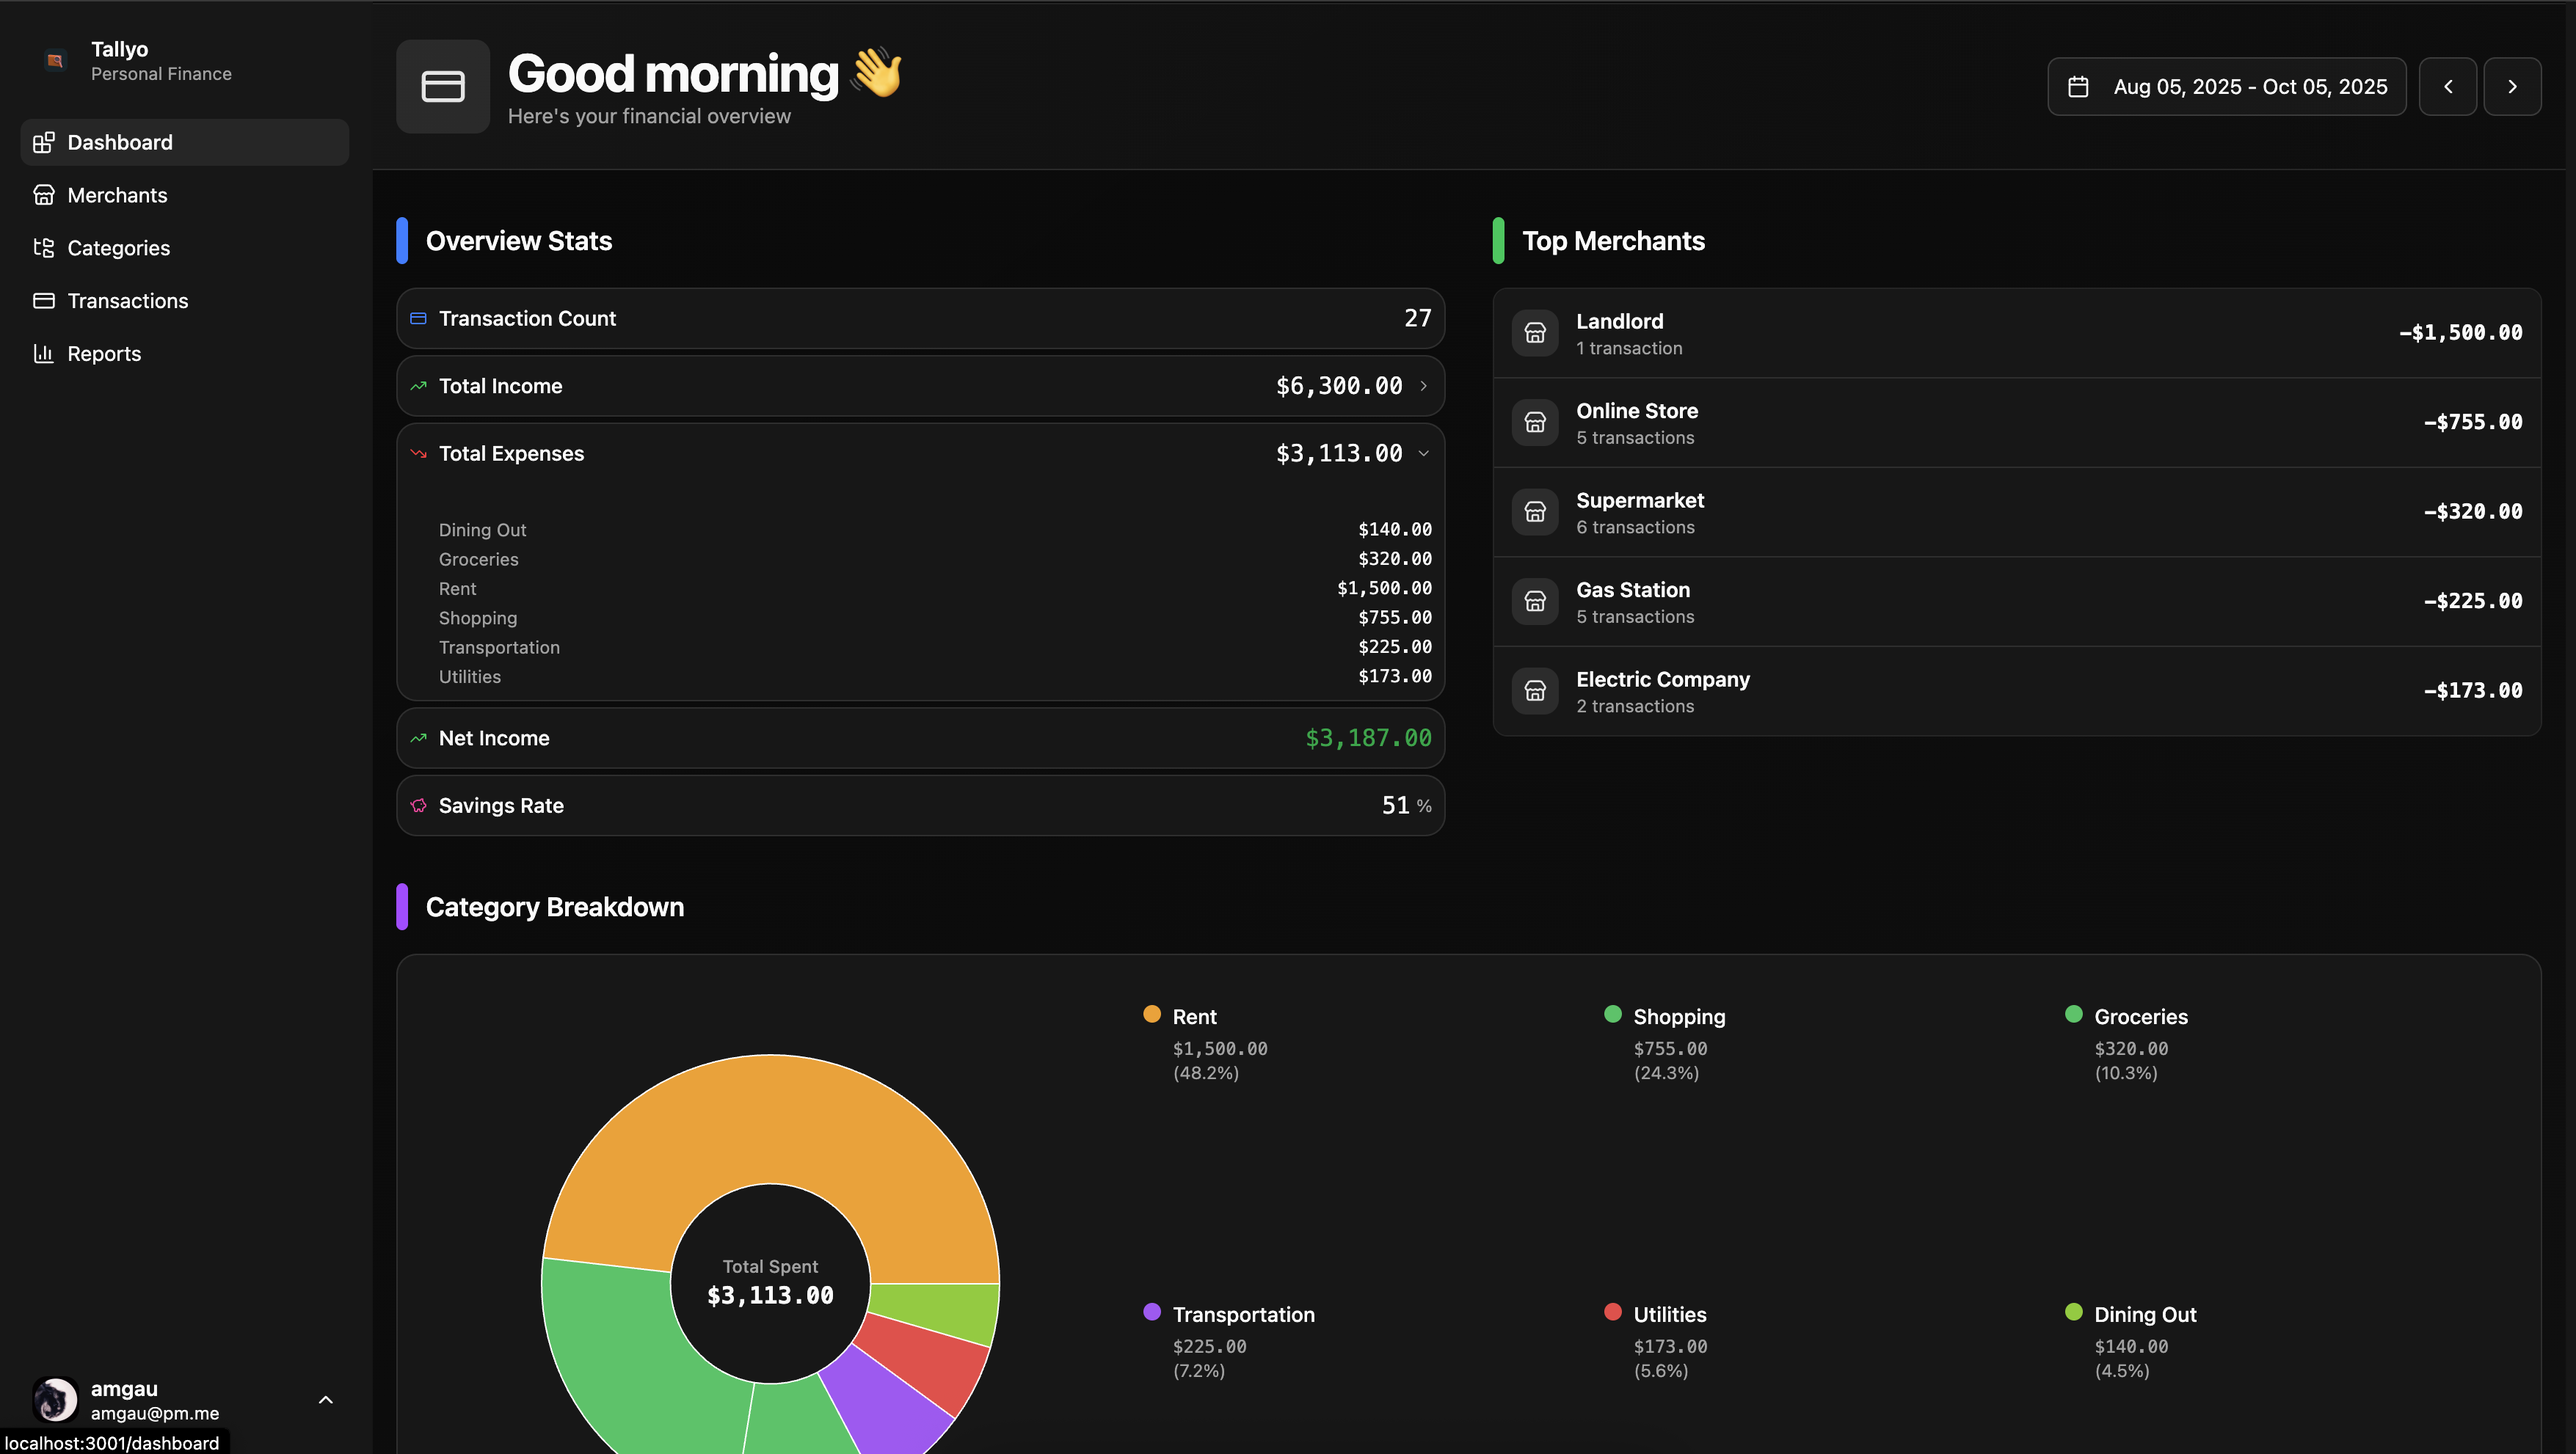
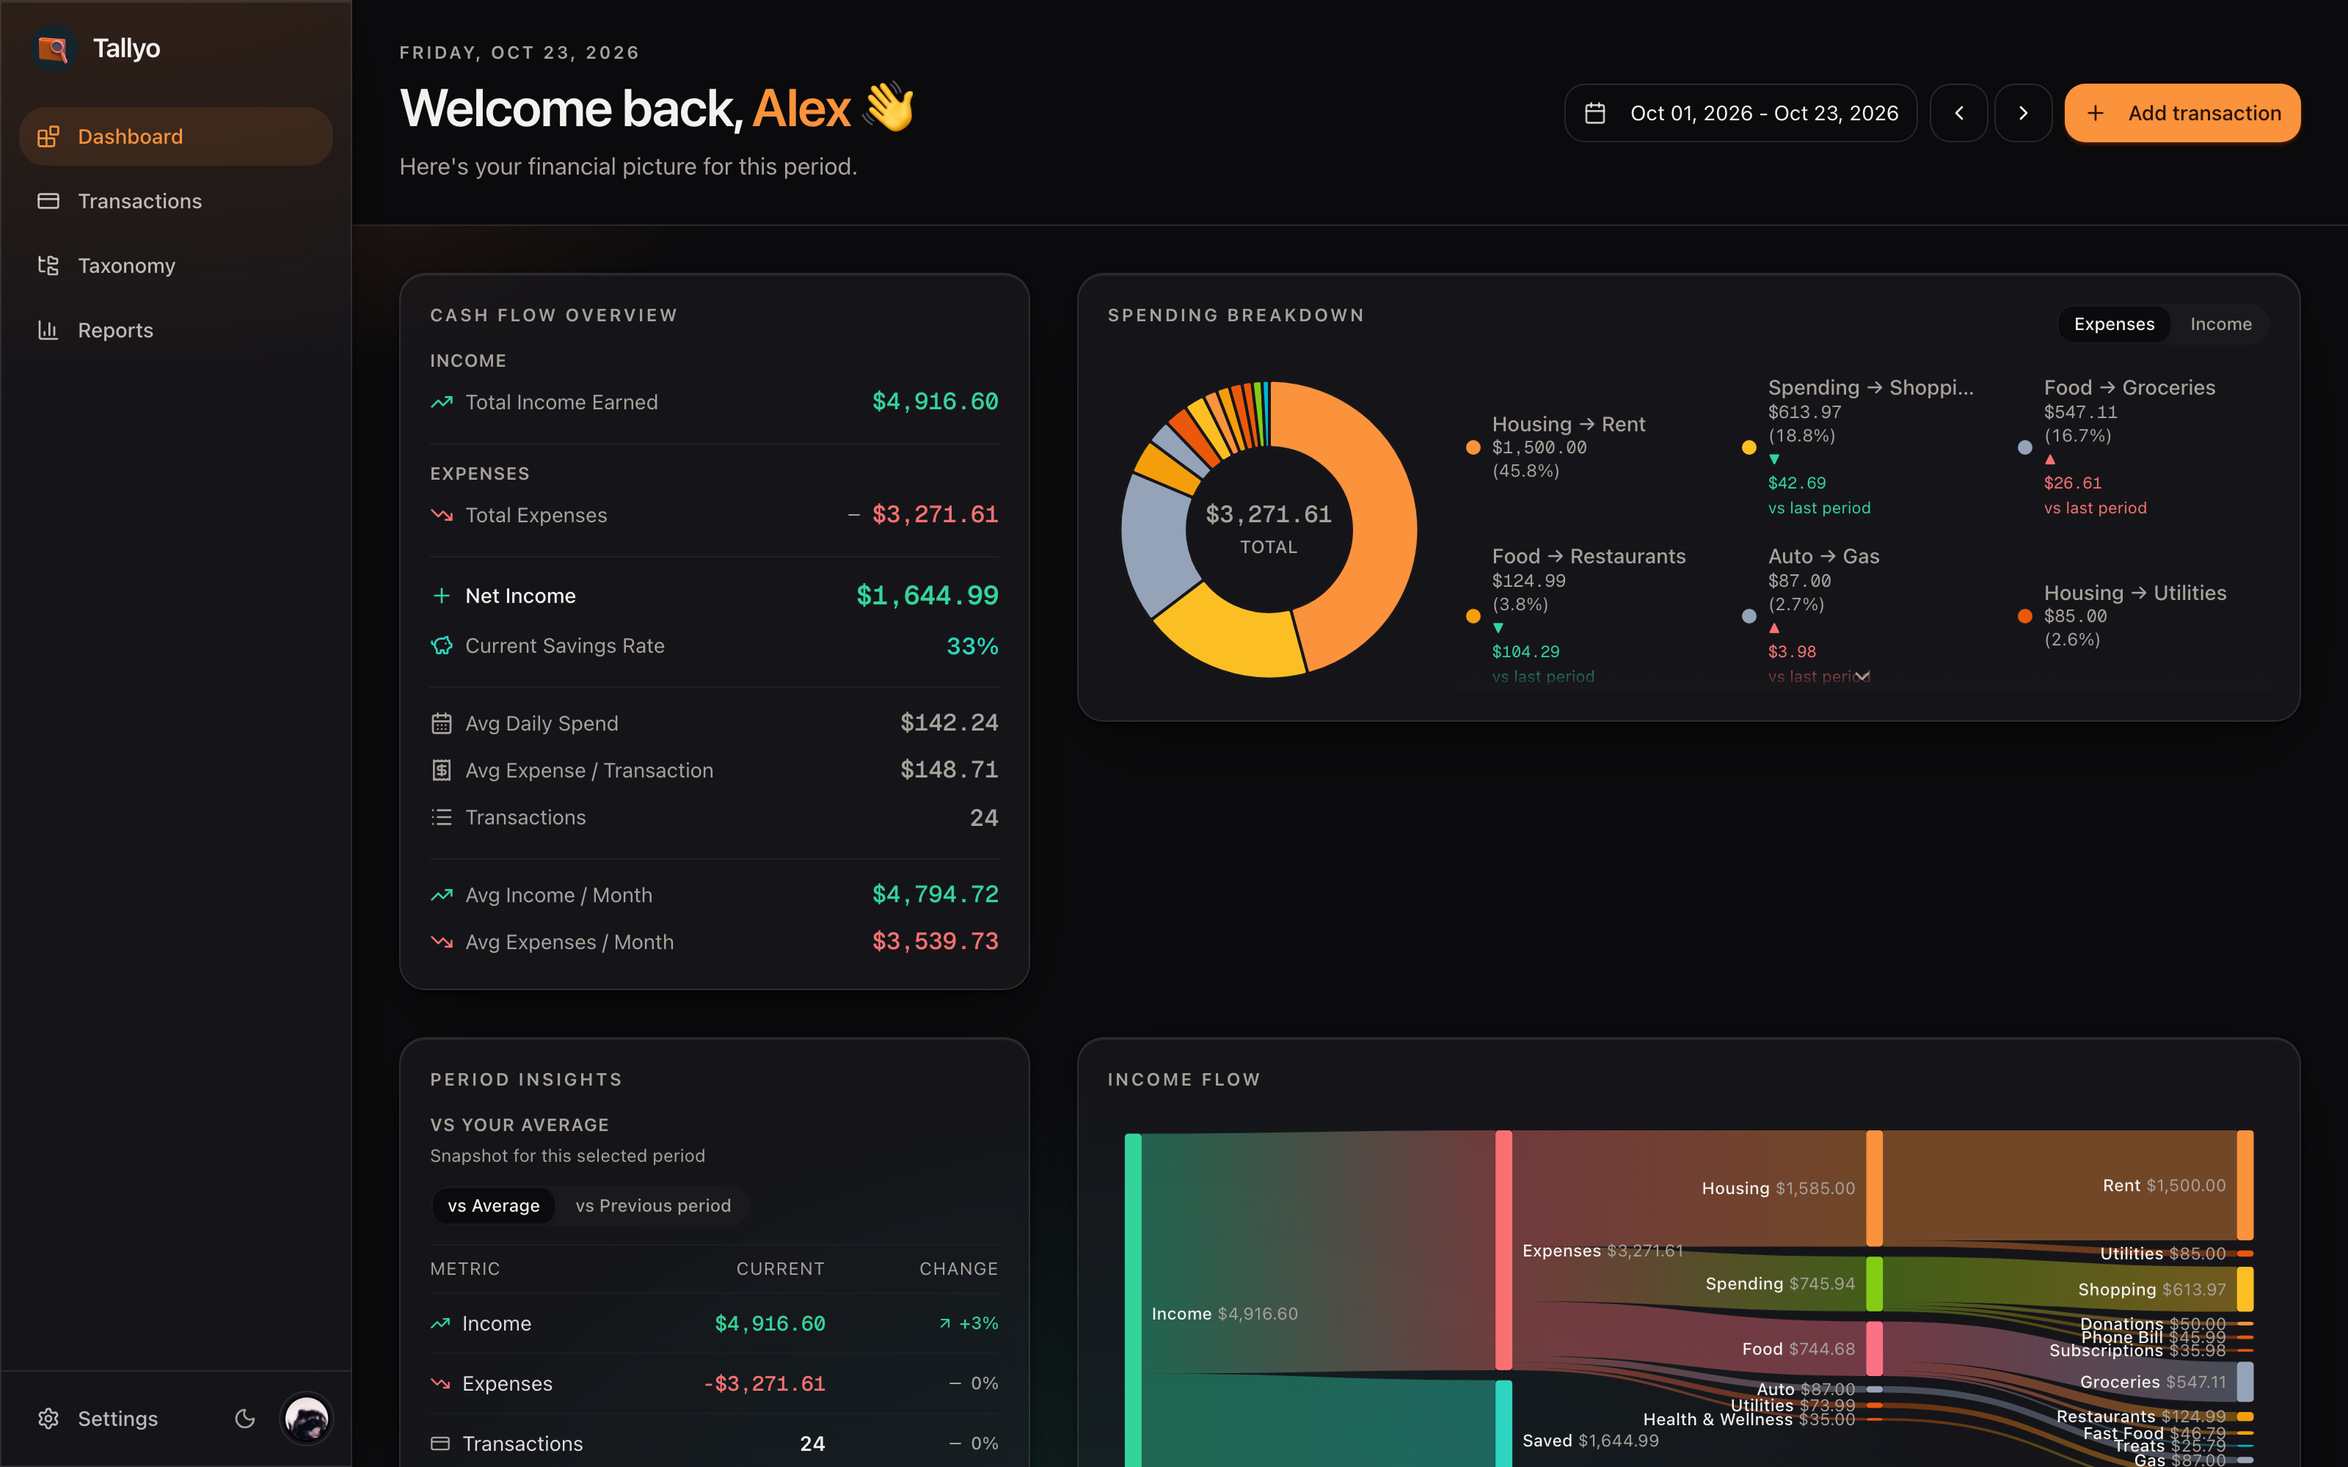
docs: rewrite README and add screenshots
Replace the Better-T-Stack boilerplate with documentation that
matches the app: features, stack, setup steps, sample-data
commands, scripts, project layout, and the external API.

Add dark-theme screenshots for transactions, reports, and
taxonomy, and refresh the landing and dashboard captures.

diff --git a/README.md b/README.md
@@ -1,77 +1,120 @@
-# tallyo-rewrite
+# Tallyo
 
-This project was created with [Better-T-Stack](https://github.com/AmanVarshney01/create-better-t-stack), a modern TypeScript stack that combines React, TanStack Router, Hono, ORPC, and more.
+Tallyo is a personal-finance app built around one workflow: import your transactions, normalize merchants and categories, then read the results on a dashboard and in reports.
+
+![Tallyo dashboard](examples/dashboard.png)
 
 ## Features
 
-- **TypeScript** - For type safety and improved developer experience
-- **TanStack Router** - File-based routing with full type safety
-- **TailwindCSS** - Utility-first CSS for rapid UI development
-- **shadcn/ui** - Reusable UI components
-- **Hono** - Lightweight, performant server framework
-- **oRPC** - End-to-end type-safe APIs with OpenAPI integration
-- **Node.js** - Runtime environment
-- **Drizzle** - TypeScript-first ORM
-- **PostgreSQL** - Database engine
-- **Authentication** - Email & password authentication with Better Auth
-- **Turborepo** - Optimized monorepo build system
-- **Biome** - Linting and formatting
+- **Transactions**: create, edit, search, filter, review, split, and annotate, or import in bulk through the REST API.
+- **Taxonomy**: merchants, categories, and keyword rules, with recommended categories you can apply in bulk.
+- **Dashboard**: cash flow, spending breakdown, period-over-period insights, and an income-flow Sankey.
+- **Reports**: filtered summaries and totals for any date range.
+- **AI suggestions (optional)**: transactions that end up uncategorized can be queued for a category or merchant suggestion via OpenRouter. Suggestions are advisory metadata and are never applied automatically.
+- **Auth**: Discord OAuth with server-side sessions.
 
-## Getting Started
+## Stack
 
-First, install the dependencies:
+| Layer | Choice |
+| --- | --- |
+| Web | React 19, TanStack Router and Query, Tailwind CSS v4, Radix-based UI components |
+| API | Hono, oRPC, Drizzle ORM |
+| Data | PostgreSQL 16 |
+| Tooling | Vite+ (`vp`) for dev, build, test, lint, and format; Vitest |
+
+## Screenshots
+
+|  |  |
+| --- | --- |
+| ![Transactions](examples/transactions.png) | ![Reports](examples/reports.png) |
+| ![Taxonomy](examples/taxonomy.png) | ![Landing page](examples/landing.png) |
+
+## Getting started
+
+Requires Node.js and Docker for the local database.
+
+1. Install dependencies:
 
 ```bash
 npm install
 ```
-## Database Setup
 
-This project uses PostgreSQL with Drizzle ORM.
+2. Start PostgreSQL:
 
-1. Make sure you have a PostgreSQL database set up.
 ```bash
-npm run db:dev # or npm run db:dev:attached for db logs in the terminal
+npm run db:dev
 ```
 
-2. Setup `apps/server/.env` file with your PostgreSQL connection details.
-```
-cd apps/server
-cp .env.example .env
+3. Create the server env file and add your Discord OAuth credentials:
+
+```bash
+cp apps/server/.env.example apps/server/.env
 ```
 
-The `.env.example` file is setup for local development, change it before running in production!
+`DISCORD_CLIENT_ID` and `DISCORD_CLIENT_SECRET` are required. Create a Discord application, add `http://localhost:3001/api/auth/callback/discord` as a redirect URI, and copy its client ID and secret into the file. `DATABASE_URL` already points at the compose database.
 
-3. Apply the schema to your database:
+4. Apply the schema:
+
 ```bash
 npm run db:push
 ```
 
-Then, run the development server:
+5. Start both apps:
 
 ```bash
 npm run dev
 ```
 
-Open [http://localhost:3001](http://localhost:3001) in your browser to see the web application.
+The web app runs at [http://localhost:3001](http://localhost:3001) and the API at [http://localhost:3000](http://localhost:3000).
 
-The API is running at [http://localhost:3000](http://localhost:3000).
+Sign in with Discord, or skip OAuth in development by opening [http://localhost:3000/api/auth/dev-login](http://localhost:3000/api/auth/dev-login). It reuses the first user in the database, so seeded data is visible right away; add `?fresh=1` to create a separate test user instead.
 
-## Project Structure
+## Sample data
+
+```bash
+npm run db:seed     # four months of transactions for the first user
+npm run db:refresh  # three months, plus unreviewed transactions and merchant keywords
+```
+
+Both commands clear existing categories, merchants, and transactions. `db:refresh` also clears settings and the external API token.
+
+## Scripts
+
+| Command | What it does |
+| --- | --- |
+| `npm run dev` | Start web and server in parallel |
+| `npm run dev:web` / `npm run dev:server` | Start one side only |
+| `npm run build` | Production build |
+| `npm run check` | Format, lint, and type-check with fixes |
+| `npm run check-types` | Type-check both apps |
+| `npm run test` | Run the Vitest suites |
+| `npm run db:dev` / `npm run db:down` | Start or stop local PostgreSQL |
+| `npm run db:push` | Push the Drizzle schema |
+| `npm run db:generate` / `npm run db:migrate` | Create or apply migrations |
+| `npm run db:seed` / `npm run db:refresh` | Load sample data |
+| `npm run db:studio` | Open Drizzle Studio |
+
+## Project structure
 
 ```
-tallyo-rewrite/
+tallyo/
 ├── apps/
-│   ├── web/         # Frontend application (React + TanStack Router)
-│   └── server/      # Backend API (Hono, ORPC)
+│   ├── web/      React SPA: routes, components, oRPC client
+│   └── server/   Hono API, oRPC routers, Drizzle schema, migrations
+├── examples/     Screenshots used in this README
+├── compose.yml   Local PostgreSQL and production-style server container
+└── vite.config.ts
 ```
 
-## Available Scripts
+## External API
 
-- `npm run dev`: Start all applications in development mode
-- `npm run build`: Build all applications
-- `npm run dev:web`: Start only the web application
-- `npm run dev:server`: Start only the server
-- `npm run check-types`: Check TypeScript types across all apps
-- `npm run db:push`: Push schema changes to database
-- `npm run db:studio`: Open database studio UI
-- `npm run check`: Run Biome formatting and linting
+The server exposes a bearer-token REST API under `/api` for importing transactions and reading merchants and categories. Generate a token in Settings, then send it with each request:
+
+```bash
+curl -X POST http://localhost:3000/api/transactions \
+  -H "Authorization: Bearer $TALLYO_TOKEN" \
+  -H "Content-Type: application/json" \
+  -d '{"transactions":[{"amount":-1250,"date":"2026-10-20","transactionDetails":"WHOLEFDS","externalId":"demo-1"}]}'
+```
+
+The full reference is in [`apps/server/src/external-api-docs.md`](apps/server/src/external-api-docs.md) and is also served at `/api/docs`.
